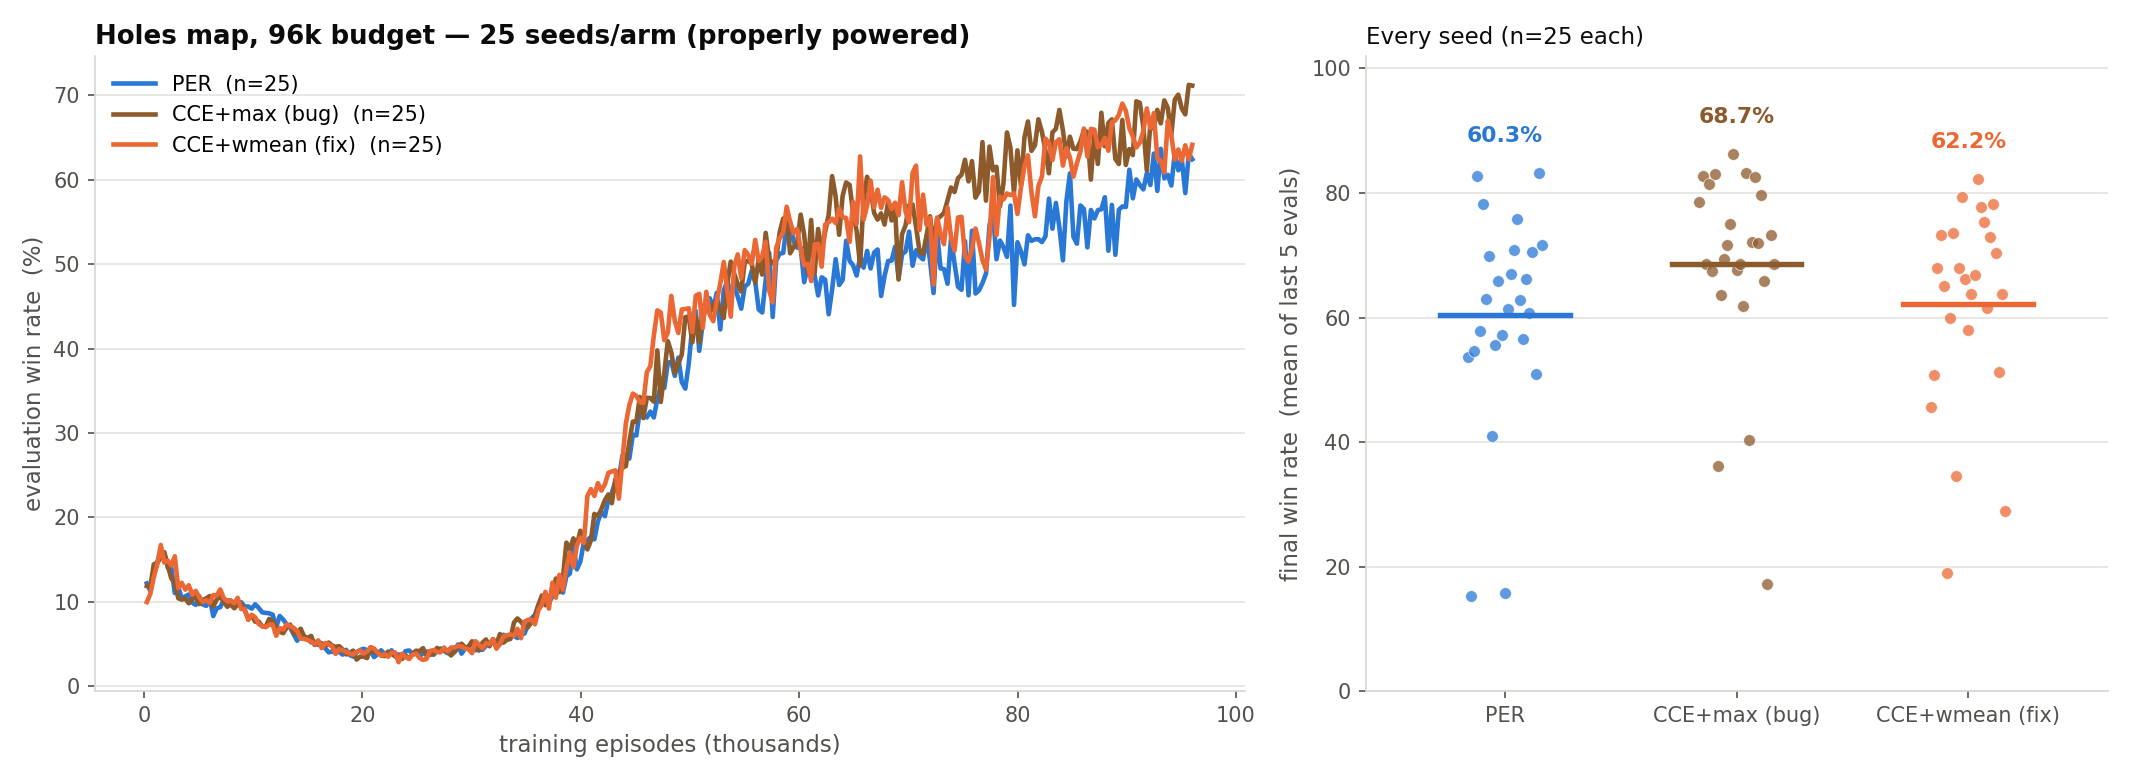
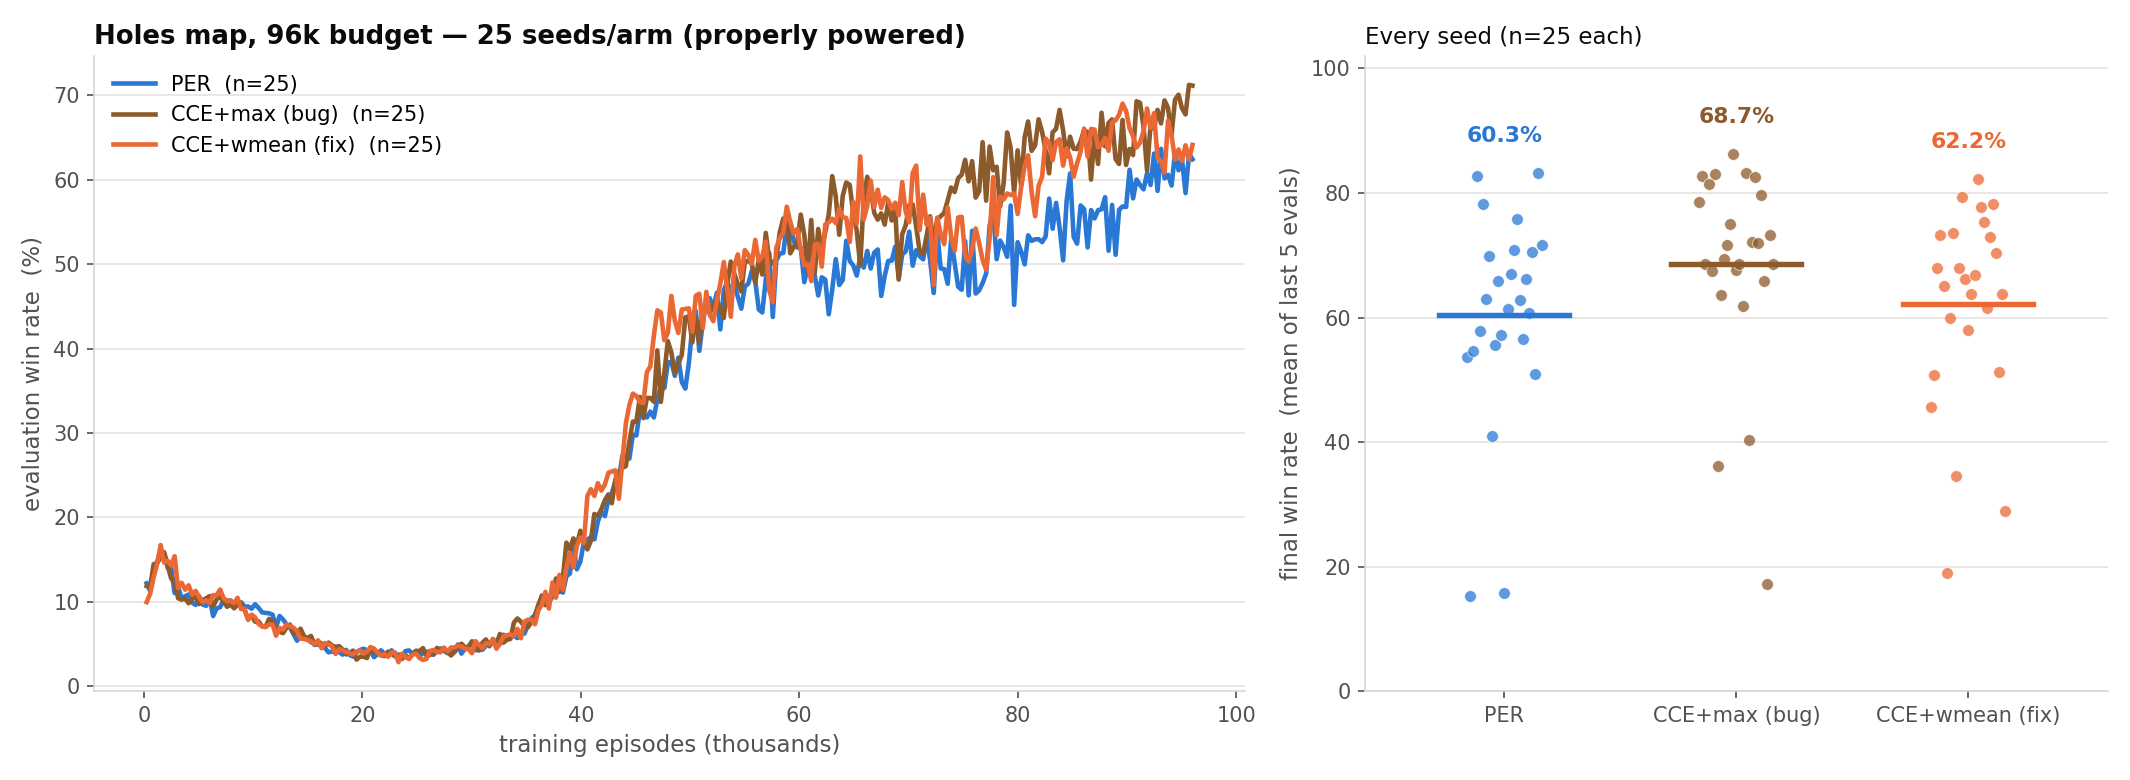
JaxNav 150k/25-seed: CCE's edge is stability, not a higher ceiling
All 75 jobs completed, every seed at full budget. The three arms reach the
same ceiling (best-5 seeds: PER 79.5%, CCE+max 78.4%, CCE+wmean 76.4%) and
differ entirely at the floor (worst-5: 12.8%, 40.5%, 52.5%). Spread differs
accordingly -- std 25.5pp / 14.1pp / 8.8pp, Brown-Forsythe vs PER p=0.0119
and p=0.0005.

The mechanism is late collapse. 7 of 25 PER seeds end more than 25pp below
their own smoothed peak (job 272176 peaked 75.6% at ep 131k and finished at
14.6%); CCE+max 1/25, CCE+wmean 0/25, Fisher p=0.0488 and p=0.0096. A new
per-seed figure shows it -- the IQM curve averages the failure away and makes
the arms look merely a few points apart.

This is also why the 96k run showed nothing: those collapses start at ep
104k-134k, past that budget. At 96k the collapse counts are 2/1/1 (p=1.0) and
the spreads are indistinguishable (~16pp, p=0.74/0.99).

t-test and Mann-Whitney disagree for CCE+wmean vs PER (p=0.021 vs p=0.214)
and both are right: the medians are close, so ranks barely move, while the
means separate because only PER has a failure tail. The spread and the
collapse count are the finding; the mean gap is a side effect.

At 96k the buggy 'max' aggregation scored highest, which muddied issue #3.
At 150k, converged, the weighted_mean fix is better on every reliability
measure and tied on the mean, so the fix helps where it matters.

Analysis changes:
- collapse detection compares smoothed peak against smoothed final (both 41
[…]

diff --git a/src/counterfactual_rl/analysis/claim2/jaxnav_holes_figures.py b/src/counterfactual_rl/analysis/claim2/jaxnav_holes_figures.py
@@ -192,6 +192,98 @@ def trend_verdict(stat):
     return "still RISING (not converged)" if m > 0 else "still FALLING (not converged)"
 
 
+SMOOTH = 41  # evals; ~10k episodes at eval_interval=250
+
+
+def peak_and_final(job, k=5, smooth=SMOOTH, runs_dir=None):
+    """(smoothed peak win rate, final win rate, episode of the peak).
+
+    Smoothed before taking the max so a single lucky 100-episode eval cannot
+    masquerade as a peak the run then 'collapsed' from. The window is wide
+    because each eval point averages only 100 episodes and a raw per-seed
+    curve swings ~40pp; a narrow window leaves enough noise in the peak to
+    invent collapses that are not there. It is also the window the per-seed
+    figure draws, so the red/grey labels match the lines a reader sees."""
+    r = load(job, runs_dir)
+    if r is None or len(r[1]) < max(k, smooth):
+        return None
+    eps, wins = r
+    sm = np.convolve(wins, np.ones(smooth) / smooth, mode="valid")
+    i = int(sm.argmax())
+    # Peak and final are both read off the SAME smoothed series. Comparing a
+    # 41-eval smoothed peak against a 5-eval raw tail is not like-for-like: the
+    # tail carries far more noise, so an unlucky last few hundred episodes reads
+    # as a collapse. That mismatch flagged a CCE seed whose smoothed curve is
+    # visibly flat at ~70% right to the end.
+    return float(sm.max()), float(sm[-1]), int(eps[smooth - 1 + i])
+
+
+def collapse_count(jobs, drop=0.25, smooth=SMOOTH, runs_dir=None):
+    """Seeds that ended >`drop` below their own smoothed peak, i.e. that learned
+    something and then lost it. Returns (count, [peak episodes])."""
+    hits = []
+    for j in jobs:
+        pf = peak_and_final(j, smooth=smooth, runs_dir=runs_dir)
+        if pf and pf[0] - pf[1] > drop:
+            hits.append(pf[2])
+    return len(hits), sorted(hits)
+
+
+def reliability_report(vals_by_arm, arms, labels, runs_dir=None):
+    """The spread, the lower tail, and the late-collapse count.
+
+    Kept separate from the mean comparison because on this task they disagree
+    and the spread is the real effect: the arms reach the SAME ceiling, and
+    differ in how often a seed throws its progress away late in training."""
+    per = np.array(vals_by_arm.get("per", []))
+    print("\n  reliability (the arms differ in floor, not ceiling):")
+    for key in ("per", "cce_max", "cce_wmean"):
+        v = np.array(vals_by_arm.get(key, []))
+        if len(v) < 5:
+            continue
+        s = np.sort(v)
+        line = (f"  {labels[key]:16s} std {v.std(ddof=1)*100:5.1f}pp   "
+                f"worst5 {s[:5].mean()*100:5.1f}%   best5 {s[-5:].mean()*100:5.1f}%")
+        if key != "per" and len(per) >= 5:
+            _, p_bf = scipy_stats.levene(per, v, center="median")
+            line += f"   Brown-Forsythe vs PER p={p_bf:.4f}"
+        print(line)
+
+    print("\n  late collapse (ended >25pp below own smoothed peak):")
+    counts = {}
+    for key in ("per", "cce_max", "cce_wmean"):
+        n, where = collapse_count(arms[key], runs_dir=runs_dir)
+        counts[key] = n
+        span = f"peaks at ep {where[0]}-{where[-1]}" if where else ""
+        print(f"  {labels[key]:16s} {n}/{len(arms[key])}   {span}")
+    if "per" in counts:
+        for key in ("cce_max", "cce_wmean"):
+            if key not in counts:
+                continue
+            a_n, b_n = counts["per"], counts[key]
+            tot_a, tot_b = len(arms["per"]), len(arms[key])
+            _, p = scipy_stats.fisher_exact([[a_n, tot_a - a_n], [b_n, tot_b - b_n]])
+            print(f"    PER vs {labels[key]:16s} Fisher p={p:.4f}")
+    # The 25pp/41-eval choice was made after seeing the data, so print the whole
+    # grid rather than asking the reader to trust one cell of it. If the effect
+    # only exists at the chosen setting, that is visible here immediately.
+    print("\n  collapse-count sensitivity (PER / CCE+max / CCE+wmean, out of 25):")
+    header = "   ".join(f"{d:>2d}pp" for d in (15, 20, 25, 30, 40))
+    print(f"    smooth  {header}")
+    n_per_higher = n_cells = 0
+    for win in (9, 21, 41, 61):
+        cells = []
+        for drop in (0.15, 0.20, 0.25, 0.30, 0.40):
+            c = [collapse_count(arms[k], drop=drop, smooth=win, runs_dir=runs_dir)[0]
+                 for k in ("per", "cce_max", "cce_wmean")]
+            cells.append(f"{c[0]:2d}/{c[1]:2d}/{c[2]:2d}")
+            n_cells += 1
+            n_per_higher += c[0] > max(c[1], c[2])
+        print(f"    {win:>6d}  " + " ".join(cells))
+    print(f"    PER strictly highest in {n_per_higher}/{n_cells} cells.")
+    print("  The threshold-free evidence is the spread reported above.")
+
+
 def perm_p(a, b):
     """Exact one-sided permutation test; enumerates all C(n,k) splits."""
     pool = list(a) + list(b)
@@ -427,6 +519,8 @@ def fig_25seed_power(manifest_path=POWER_MANIFEST, budget_label="96k",
         print(f"  {labels[a_key]:16s} vs {labels[b_key]:16s}  "
               f"diff={a.mean()-b.mean():+.1%}  t-test p={p_t:.4f}  MannWhitney p={p_u:.4f}")
 
+    reliability_report(vals_by_arm, kept, labels, runs_dir)
+
     # Why the budget was raised. The original read of the 96k run was "PER has
     # settled, the CCE arms have not", but that came from the endpoint-diff
     # estimator; with the least-squares version below, all three arms -- PER
@@ -448,6 +542,58 @@ def fig_25seed_power(manifest_path=POWER_MANIFEST, budget_label="96k",
     return out
 
 
+def fig_collapse(manifest_path, budget_label, out_name, runs_dir=None, drop=0.25):
+    """Every seed's own curve, one panel per arm, collapses drawn in red.
+
+    The IQM curve in the main figure hides this: a seed that climbs to 75% and
+    falls back to 15% is averaged in with 24 others and shows up only as a
+    slightly lower line. The failure mode is only visible per seed."""
+    arms = _power_arms(manifest_path)
+    target = _target_episodes(manifest_path)
+    labels = {"per": "PER", "cce_max": "CCE+max (bug)", "cce_wmean": "CCE+wmean (fix)"}
+    order = ["per", "cce_max", "cce_wmean"]
+
+    fig, axes = plt.subplots(1, 3, figsize=(15.4, 4.8), sharey=True)
+    for ax, key in zip(axes, order):
+        jobs = [j for j in arms[key]
+                if (r := load(j, runs_dir)) is not None and r[0][-1] >= target * 0.95]
+        n_bad = 0
+        for j in jobs:
+            r = load(j, runs_dir)
+            pf = peak_and_final(j, runs_dir=runs_dir)
+            bad = pf is not None and pf[0] - pf[1] > drop
+            n_bad += bad
+            # Each eval point averages only 100 episodes, so a raw per-seed line
+            # is a noise band ~40pp tall and 25 of them overlap into a solid
+            # block -- the collapse is invisible without smoothing first.
+            win = SMOOTH
+            if len(r[1]) > win:
+                sm = np.convolve(r[1], np.ones(win) / win, mode="valid")
+                xs = r[0][win - 1:]
+            else:
+                sm, xs = r[1], r[0]
+            ax.plot(xs / 1000, sm * 100,
+                    color="#c0392b" if bad else GREY,
+                    lw=1.5 if bad else 0.9,
+                    alpha=0.9 if bad else 0.5, zorder=3 if bad else 2)
+        ax.set_title(f"{labels[key]}\n{n_bad}/{len(jobs)} seeds collapse",
+                     color=INK, fontsize=11.5, fontweight="bold", loc="left")
+        ax.set_xlabel("training episodes (thousands)", color=INK2, fontsize=10.5)
+        _frame(ax)
+    axes[0].set_ylabel("evaluation win rate  (%)", color=INK2, fontsize=11)
+    axes[0].set_ylim(0, 100)
+    fig.suptitle(f"JaxNav holes map, {budget_label} budget — one line per seed "
+                 f"(smoothed over {SMOOTH} evals); red = ended >{int(drop*100)}pp below its own peak",
+                 color=INK, fontsize=12.5, fontweight="bold", x=0.005, ha="left")
+    fig.tight_layout(rect=(0, 0, 1, 0.93))
+    os.makedirs(OUT_DIR, exist_ok=True)
+    out = os.path.join(OUT_DIR, out_name)
+    fig.savefig(out, dpi=150, facecolor="white")
+    plt.close(fig)
+    print(f"wrote {out}")
+    return out
+
+
 # 150k follow-up run's manifest (relaunched because none of the 96k CCE curves had converged).
 MANIFEST_150K = os.path.join(EXPERIMENTS, "holes_25seed_150k", "manifest.json")
 
@@ -461,5 +607,7 @@ if __name__ == "__main__":
     fig_v4()
     fig_agg()
     fig_25seed_power()
+    fig_collapse(POWER_MANIFEST, "96k", "fig_jaxnav_collapse_96k.png")
     if os.path.exists(MANIFEST_150K):
         fig_25seed_150k()
+        fig_collapse(MANIFEST_150K, "150k", "fig_jaxnav_collapse_150k.png")

diff --git a/lab-notebook.md b/lab-notebook.md
@@ -41,15 +41,12 @@ NOT done experimenting — no claim hits its target scenario count yet.
 2. Redo C1 on deterministic FL.
 3. Fix 3 paper.tex numbers (FL-det → 25 seeds; FL-stoch → 0.67–0.75; SMAX PER → 0.71).
 4. Recheck ICLR 2027 deadline.
-5. [side track, not a paper scenario] JaxNav robotics-transfer (branch
-   worktree-research+cce-robotics-transfer): 25-seed/150k rerun of the 3 arms
-   (cce-max/cce-wmean/per) IN FLIGHT as of 2026-08-13. Job IDs 272116-272140 (cce-max),
-   272141-272165 (cce-wmean), 272166-272190 (per); manifest
-   `agents/jax_nav/experiments/holes_25seed_150k/manifest.json`. Fresh runs, not resumes.
-   Check with `sacct -j <jobid> -o JobID,State,Elapsed -X`. PER finishes ~3x faster than the
-   CCE arms (no counterfactual rollouts). When all 75 are done:
-   `PYTHONPATH=<worktree>/src python -m counterfactual_rl.analysis.claim2.jaxnav_holes_figures`
-   — `fig_25seed_150k` already exists and reads the manifest; nothing to add.
+5. [side track — see OPEN question in the 2026-08-14 LOG entry about promoting it] JaxNav
+   robotics-transfer (branch worktree-research+cce-robotics-transfer): the 25-seed/150k run is
+   **DONE (2026-08-14), all 75 COMPLETED, analysed, figures committed** — result in the LOG.
+   Headline: CCE's edge here is stability (PER collapses late in 7/25 seeds, CCE+wmean 0/25),
+   not a higher ceiling. Decide whether that becomes a paper claim; if yes it needs replication
+   on a paper env (FL-det long-run is the cheap test).
    **CORRECTION to the 2026-08-13 LOG entry (that entry is append-only, so it stands as
    written — this is the fix).** Its tail-trend read, "PER flat (+0.3pp), CCE+max rising
    (+4.2pp), CCE+wmean falling (-4.3pp)", is an artifact of the estimator, not a finding. It
@@ -109,6 +106,72 @@ NOT done experimenting — no claim hits its target scenario count yet.
 Active: FL-det, FL-stoch, SMAX-3m, C4.   Dropped: Chess, raw diagnostics.
 
 ## LOG (append-only, newest on top)
+
+### 2026-08-14 — JaxNav 150k/25-seed DONE: CCE's edge is STABILITY, not a higher ceiling
+All 75 jobs COMPLETED, zero failures, all 25 seeds/arm at full budget. This is the cleanest
+JaxNav result so far and it reframes what CCE is doing on this task.
+
+**The arms reach the same ceiling and differ at the floor.**
+```
+150k, 25 seeds/arm, holes map          mean    IQM    std    worst5   best5
+  PER                                  51.5%  52.1%  25.5pp   12.8%   79.5%
+  CCE+max   (old buggy aggregation)    62.5%  63.4%  14.1pp   40.5%   78.4%
+  CCE+wmean (the issue-#3 fix)         64.6%  64.7%   8.8pp   52.5%   76.4%
+```
+best5 is the same for all three (76-80%). The whole difference is the bottom of the
+distribution. Brown-Forsythe on the spread: CCE+max p=0.0119, CCE+wmean p=0.0005.
+Bootstrap 95% CI on the mean gap vs PER: max +11.0pp [0.0,+22.2], wmean +13.1pp [+2.9,+23.8].
+
+**Why: PER learns and then throws it away.** 7/25 PER seeds end >25pp below their own smoothed
+peak (e.g. job 272176 peaked 75.6% at ep 131k, finished 14.6%). CCE+max 1/25, CCE+wmean 0/25.
+Fisher p=0.0488 / p=0.0096. See `fig_jaxnav_collapse_150k.png` — the failure is invisible in an
+IQM curve and obvious per seed.
+
+**This is why 96k showed nothing.** The PER collapses start at ep 104k-134k, past the old
+budget. At 96k the collapse counts are PER 2/25, max 1/25, wmean 1/25 (p=1.0) and the spreads
+are identical (~16pp, BF p=0.74/0.99). Nothing was there to find.
+
+**t-test and Mann-Whitney disagree on purpose** (wmean vs PER: t p=0.021, MW p=0.214). Correct
+behaviour, not a bug: the medians are close (60.8% vs 64.8%), so ranks barely move; the means
+separate because PER has a failure tail. Report the spread and the collapse count, not the
+mean gap — the mean gap is a side effect.
+
+**The aggregation fix now looks right.** At 96k the buggy `max` scored highest, which muddied
+the issue-#3 story. At 150k with everything converged, `weighted_mean` is best on every
+reliability measure (std 8.8pp vs 14.1pp, 0 collapses vs 1, worst5 52.5% vs 40.5%), while the
+two are tied on the mean (-2.1pp, p=0.53). So the fix helps where it matters.
+
+CAVEAT: the 96k and 150k sweeps differ in epsilon decay (40000 vs 62500) as well as length, so
+cross-run comparisons are confounded. Every claim above is a WITHIN-150k-run comparison —
+same schedule, same seeds — except the "why 96k showed nothing" timing note.
+
+Method fixes this session (all in `analysis/claim2/jaxnav_holes_figures.py`):
+- coverage printed per arm; seeds short of 95% of the manifest budget are excluded, not
+  silently averaged in at whatever episode they died on.
+- convergence check refitted PER SEED with a CI across seeds. The old last-minus-first version
+  is endpoint-noise dominated and flips sign with the window (PER: -1.2pp at 3k, +15.9pp at
+  20k on identical data). See the correction in NEXT — the 2026-08-13 entry's "PER flat, CCE
+  rising/falling" read is an artifact and should not be cited.
+- collapse detection compares smoothed peak to smoothed final (both 41 evals). Comparing a
+  smoothed peak to a raw 5-eval tail flags noise as collapse; that mismatch was inventing a
+  CCE+wmean "collapse" whose curve is visibly flat to the end.
+- the full threshold x smoothing grid is printed rather than one hand-picked cell, because
+  the 25pp/41-eval choice was made after seeing the data. Direction is robust: PER is strictly
+  highest in 20/20 cells at 150k (and only 5/20 at 96k, i.e. no effect there).
+
+Two measurement traps that produced WRONG numbers before being caught — both in NEXT:
+never read a JaxNav sweep before every seed lands (fast seeds are the good ones, Spearman
++0.49; cost a 10pp overestimate), and never compare runs at matched episode count when the
+epsilon schedules differ (made healthy CCE arms look catastrophic).
+
+Jobs (Rosie, checkpoints not committed): 272116-272140 cce-max, 272141-272165 cce-wmean,
+272166-272190 per. Manifest `agents/jax_nav/experiments/holes_25seed_150k/manifest.json`.
+Figures: `fig_jaxnav_25seed_150k.png`, `fig_jaxnav_collapse_{96k,150k}.png`. Rerun with
+`PYTHONPATH=<worktree>/src python -m counterfactual_rl.analysis.claim2.jaxnav_holes_figures`.
+
+OPEN: is "CCE prevents late collapse" a paper claim or a side note? It is a different claim
+from C2-as-written ("speeds learning") — this is "doesn't fall over". Needs a decision, and
+if it counts, it needs replication on a paper env (FL-det long-run would be the cheap test).
 
 ### 2026-08-13 — JaxNav: found+fixed a real aggregation bug (issue #3), reran properly powered — mixed result, not a clean win
 Branch `worktree-research+cce-robotics-transfer`. Follow-up to 2026-08-06's port. Two things
